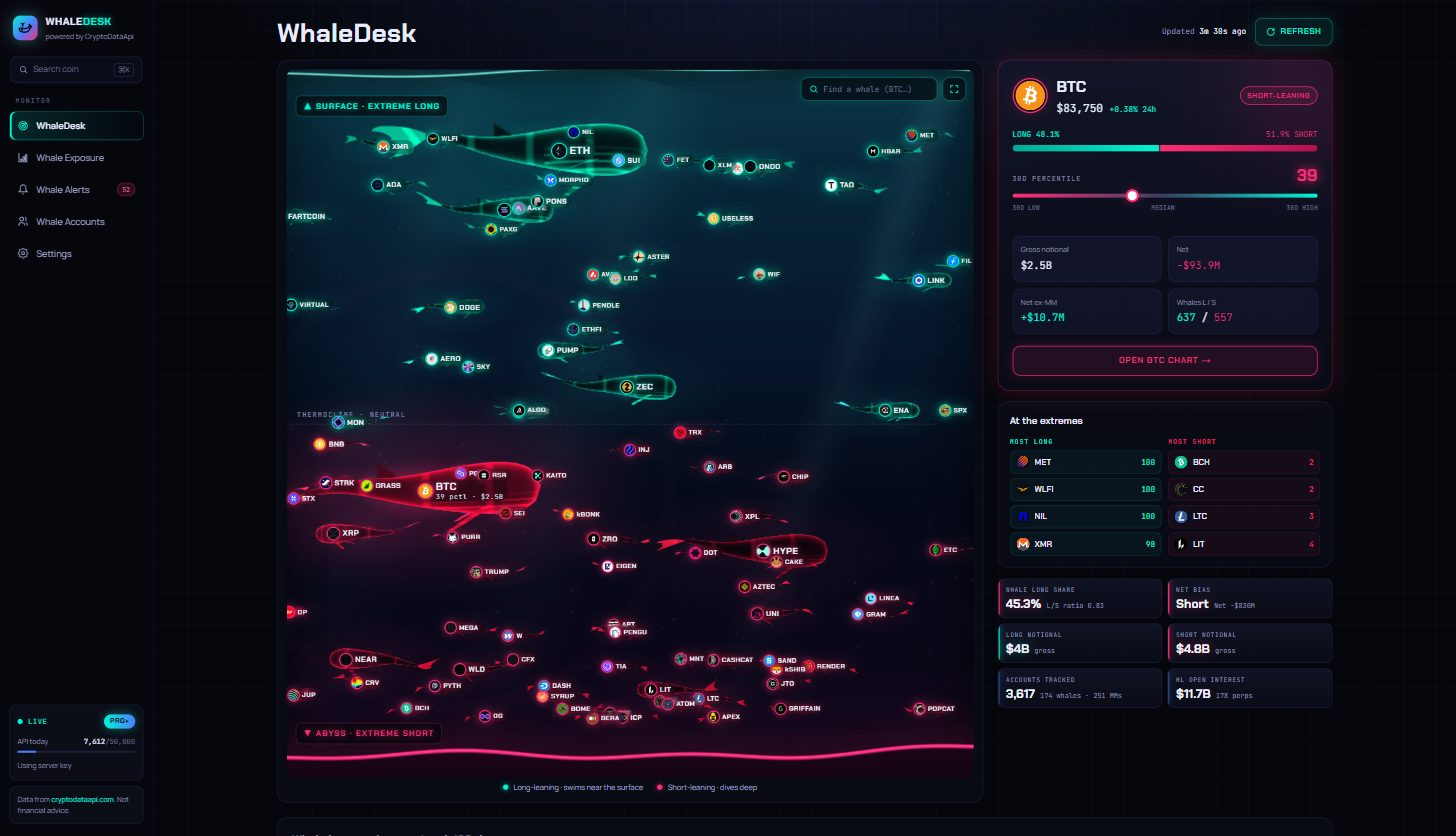
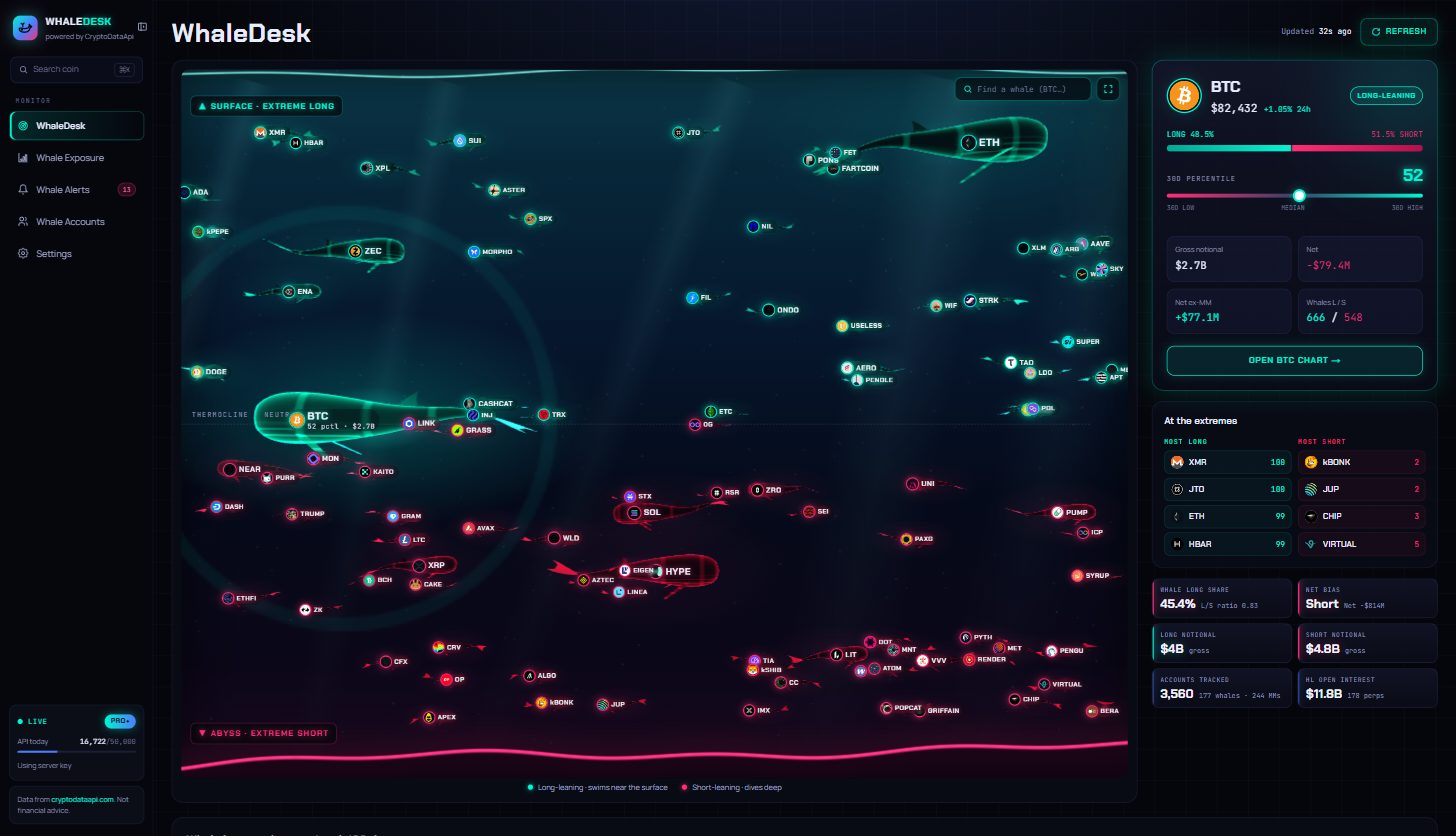
Widen the WhaleDesk ocean and add a sidebar toggle
The home page drops the 1680px cap so the ocean grows with the browser,
while the right column scales from 380px to 440px with the content width
and stacks below the ocean under ~960px. A toggle beside the logo hides
the sidebar (remembered across reloads); a floating button brings it back.
The 24h change on the selected-coin card no longer splits across lines.

diff --git a/src/components/layout/sidebar.tsx b/src/components/layout/sidebar.tsx
@@ -2,10 +2,12 @@
 
 import Link from "next/link";
 import { usePathname } from "next/navigation";
-import { useMemo } from "react";
-import { WhaleMark } from "@/components/deck/icons";
+import { useEffect, useMemo, useState } from "react";
+import { SidebarIcon, WhaleMark } from "@/components/deck/icons";
+import { useSettingsHydrated } from "@/hooks/use-hydrated";
 import { useNow } from "@/hooks/use-now";
 import { cn } from "@/lib/utils";
+import { useSettings } from "@/stores/settings";
 import { useStream } from "@/stores/stream";
 import { CoinSearch } from "./coin-search";
 import { NAV_ITEMS, isActive } from "./nav";
@@ -13,6 +15,34 @@ import { ApiUsage, KeySourceLine, LiveIndicator, TierPill } from "./status-widge
 
 const WHALE_TYPES = new Set(["whale_position", "whale_transfer", "liquidation"]);
 const ALERT_WINDOW_MS = 10 * 60_000;
+
+const SIDEBAR_ID = "app-sidebar";
+
+/** Hides or shows the desktop sidebar. `floating` is the copy pinned top-left while the sidebar is hidden. */
+export function SidebarToggle({ floating = false }: { floating?: boolean }) {
+  const hidden = useSettings((s) => s.sidebarHidden);
+  const setHidden = useSettings((s) => s.setSidebarHidden);
+  const label = hidden ? "Show sidebar" : "Hide sidebar";
+  return (
+    <button
+      type="button"
+      onClick={() => setHidden(!hidden)}
+      title={label}
+      aria-label={label}
+      aria-controls={SIDEBAR_ID}
+      aria-expanded={!hidden}
+      className={cn(
+        "grid shrink-0 cursor-pointer place-items-center rounded-[10px] border text-ink-soft transition-colors hover:border-long/40 hover:text-long",
+        floating
+          ? "fixed top-[30px] left-3.5 z-40 hidden size-9 border-iris/16 bg-[rgba(6,7,14,.85)] backdrop-blur-[12px] lg:grid"
+          : // Tucked into the rail's top-right corner, level with the logo, clear of the brand text.
+            "absolute top-7 right-1 size-[26px] border-transparent hover:bg-iris/8",
+      )}
+    >
+      <SidebarIcon size={floating ? 18 : 16} open={!hidden} />
+    </button>
+  );
+}
 
 export function Brand({ onNavigate }: { onNavigate?: () => void }) {
   return (
@@ -121,10 +151,31 @@ export function SidebarBody({ onNavigate }: { onNavigate?: () => void }) {
   );
 }
 
+/** Desktop rail (lg and up). Slides shut when hidden; the page reflows into the freed width. */
 export function Sidebar() {
+  const hidden = useSettings((s) => s.sidebarHidden);
+  const hydrated = useSettingsHydrated();
+  // Only slide on user toggles, not when the saved state is applied on load.
+  const [animate, setAnimate] = useState(false);
+  useEffect(() => {
+    if (!hydrated) return;
+    const id = requestAnimationFrame(() => setAnimate(true));
+    return () => cancelAnimationFrame(id);
+  }, [hydrated]);
   return (
-    <aside className="sticky top-0 z-40 hidden h-dvh w-[236px] shrink-0 flex-col overflow-y-auto border-r border-iris/10 bg-[rgba(6,7,14,.75)] px-3.5 py-[18px] backdrop-blur-[12px] lg:flex">
-      <SidebarBody />
+    <aside
+      id={SIDEBAR_ID}
+      inert={hidden}
+      className={cn(
+        "sticky top-0 z-40 hidden h-dvh shrink-0 overflow-hidden bg-[rgba(6,7,14,.75)] backdrop-blur-[12px] lg:block",
+        hidden ? "w-0 border-r-0" : "w-[236px] border-r border-iris/10",
+        animate && "transition-[width] duration-200 ease-out motion-reduce:transition-none",
+      )}
+    >
+      <div className="relative flex h-full w-[236px] flex-col overflow-y-auto px-3.5 py-[18px]">
+        <SidebarToggle />
+        <SidebarBody />
+      </div>
     </aside>
   );
 }

diff --git a/src/components/radar/whale-radar-view.tsx b/src/components/radar/whale-radar-view.tsx
@@ -16,6 +16,19 @@ import { WhaleHistoryChart } from "./whale-history-chart";
 import { WhaleKpis } from "./whale-kpis";
 import { OceanLegend, WhaleOcean } from "./whale-ocean";
 
+/**
+ * Ocean beside a right column. The column scales from 380px to 440px with the
+ * content width and the ocean takes the rest; below ~960px of content they
+ * stack. Sizes follow the content box, so they also adjust when the sidebar is hidden.
+ */
+function OceanSplit({ children }: { children: ReactNode }) {
+  return (
+    <section className="@container">
+      <div className="grid gap-[22px] @min-[960px]:grid-cols-[minmax(0,1fr)_clamp(380px,24cqw,440px)] @min-[960px]:items-start">{children}</div>
+    </section>
+  );
+}
+
 /** Ocean panel + right column (selected coin, extremes, KPIs). */
 function RadarSection({
   coins,
@@ -36,12 +49,12 @@ function RadarSection({
   }, [coins, selected]);
 
   return (
-    <section className="flex flex-wrap gap-[22px]">
-      <div className="relative flex min-w-0 flex-[3_1_560px] flex-col gap-1.5 overflow-hidden rounded-[18px] border border-iris/13 bg-panel p-3.5">
+    <OceanSplit>
+      <div className="relative flex min-w-0 flex-col gap-1.5 overflow-hidden rounded-[18px] border border-iris/13 bg-panel p-3.5">
         <WhaleOcean coins={coins} selected={current?.symbol ?? null} onSelect={setSelected} sample={sample} />
         <OceanLegend />
       </div>
-      <div className="flex min-w-0 flex-[1_1_340px] flex-col gap-4">
+      <div className="flex min-w-0 flex-col gap-4">
         {current ? (
           <SelectedCoinCard rc={current} onOpen={() => router.push(`/coin/${encodeURIComponent(current.symbol)}`)} />
         ) : (
@@ -50,7 +63,7 @@ function RadarSection({
         <ExtremesPanel coins={coins} onSelect={setSelected} />
         {kpis}
       </div>
-    </section>
+    </OceanSplit>
   );
 }
 
@@ -95,11 +108,11 @@ export function WhaleRadarView({ initialSel }: { initialSel: string | null }) {
     return (
       <>
         {header}
-        <section className="flex flex-wrap gap-[22px]">
-          <div className="flex min-w-0 flex-[3_1_560px] flex-col gap-1.5 rounded-[18px] border border-iris/13 bg-panel p-3.5">
+        <OceanSplit>
+          <div className="flex min-w-0 flex-col gap-1.5 rounded-[18px] border border-iris/13 bg-panel p-3.5">
             <DeckSkeleton className="h-[max(520px,calc(100vh-196px))] rounded-[12px]" />
           </div>
-          <div className="flex min-w-0 flex-[1_1_340px] flex-col gap-4">
+          <div className="flex min-w-0 flex-col gap-4">
             <DeckSkeleton className="h-[420px] rounded-[18px]" />
             <DeckSkeleton className="h-[190px] rounded-[18px]" />
             <div className="grid grid-cols-2 gap-2">
@@ -108,7 +121,7 @@ export function WhaleRadarView({ initialSel }: { initialSel: string | null }) {
               ))}
             </div>
           </div>
-        </section>
+        </OceanSplit>
       </>
     );
   }

diff --git a/src/stores/settings.ts b/src/stores/settings.ts
@@ -70,6 +70,8 @@ export interface SettingsState {
   refresh: RefreshSettings;
   thresholds: Thresholds;
   feed: FeedPrefs;
+  /** Desktop sidebar hidden (lg and up); the mobile drawer is unaffected. */
+  sidebarHidden: boolean;
 
   setApiKey: (key: string, info: KeyInfo | null) => void;
   setKeyInfo: (info: KeyInfo | null) => void;
@@ -81,6 +83,7 @@ export interface SettingsState {
   setThreshold: (type: EventType, value: number) => void;
   setFeed: (patch: Partial<FeedPrefs>) => void;
   setFeedType: (type: EventType, on: boolean) => void;
+  setSidebarHidden: (hidden: boolean) => void;
   importSettings: (data: unknown) => { ok: boolean; message: string };
   resetPreferences: () => void;
 }
@@ -150,6 +153,7 @@ export const useSettings = create<SettingsState>()(
       refresh: DEFAULT_REFRESH,
       thresholds: DEFAULT_THRESHOLDS,
       feed: DEFAULT_FEED,
+      sidebarHidden: false,
 
       setApiKey: (key, info) => set({ apiKey: key.trim(), keyInfo: info, demoMode: false }),
       setKeyInfo: (info) => set({ keyInfo: info }),
@@ -162,6 +166,7 @@ export const useSettings = create<SettingsState>()(
         set({ thresholds: { ...get().thresholds, [type]: Number.isFinite(value) && value >= 0 ? value : 0 } }),
       setFeed: (patch) => set({ feed: { ...get().feed, ...patch } }),
       setFeedType: (type, on) => set({ feed: { ...get().feed, types: { ...get().feed.types, [type]: on } } }),
+      setSidebarHidden: (hidden) => set({ sidebarHidden: hidden }),
 
       importSettings: (data) => {
         if (!data || typeof data !== "object") return { ok: false, message: "File is not a JSON object." };
@@ -214,6 +219,7 @@ export const useSettings = create<SettingsState>()(
         refresh: s.refresh,
         thresholds: s.thresholds,
         feed: s.feed,
+        sidebarHidden: s.sidebarHidden,
       }),
       merge: (persisted, current) => {
         const p = (persisted ?? {}) as Partial<SettingsState>;
@@ -231,6 +237,7 @@ export const useSettings = create<SettingsState>()(
           refresh: clampRefresh(p.refresh ?? {}, current.refresh),
           thresholds: sanitizeThresholds(p.thresholds, current.thresholds),
           feed: sanitizeFeed(p.feed, current.feed),
+          sidebarHidden: typeof p.sidebarHidden === "boolean" ? p.sidebarHidden : current.sidebarHidden,
         };
       },
     },

diff --git a/src/components/layout/app-shell.tsx b/src/components/layout/app-shell.tsx
@@ -1,10 +1,13 @@
 "use client";
 
 import Link from "next/link";
+import { usePathname } from "next/navigation";
 import { useState, type ReactNode } from "react";
 import { MenuIcon, WhaleMark } from "@/components/deck/icons";
 import { Sheet, SheetContent, SheetDescription, SheetTitle, SheetTrigger } from "@/components/ui/sheet";
-import { Sidebar, SidebarBody } from "./sidebar";
+import { cn } from "@/lib/utils";
+import { useSettings } from "@/stores/settings";
+import { Sidebar, SidebarBody, SidebarToggle } from "./sidebar";
 import { LiveIndicator, TierPill } from "./status-widgets";
 
 /** Top bar shown below the lg breakpoint: menu button (drawer), logo, stream + tier. */
@@ -47,12 +50,25 @@ function MobileBar() {
 }
 
 export function AppShell({ children }: { children: ReactNode }) {
+  // The WhaleDesk ocean uses the full browser width; the other pages stay capped for readable tables.
+  const fullWidth = usePathname() === "/";
+  const sidebarHidden = useSettings((s) => s.sidebarHidden);
   return (
     <div className="flex min-h-dvh">
       <Sidebar />
       <div className="flex min-w-0 flex-1 flex-col">
         <MobileBar />
-        <main className="mx-auto flex w-full max-w-[1680px] min-w-0 flex-col gap-[22px] px-4 py-5 sm:p-7">{children}</main>
+        {sidebarHidden && <SidebarToggle floating />}
+        <main
+          className={cn(
+            "mx-auto flex w-full min-w-0 flex-col gap-[22px] px-4 py-5 sm:p-7",
+            fullWidth ? "max-w-none" : "max-w-[1680px]",
+            // Room for the floating "show sidebar" button.
+            sidebarHidden && "lg:pl-[68px]",
+          )}
+        >
+          {children}
+        </main>
       </div>
     </div>
   );

diff --git a/src/components/radar/selected-coin-card.tsx b/src/components/radar/selected-coin-card.tsx
@@ -63,10 +63,10 @@ export function SelectedCoinCard({ rc, onOpen }: { rc: RadarCoin; onOpen: () => 
           <div className="flex items-baseline gap-2.5">
             <span className="font-display text-[24px] font-bold">{rc.symbol}</span>
           </div>
-          <div className="flex items-baseline gap-2.5 font-mono">
+          <div className="flex flex-wrap items-baseline gap-x-2.5 font-mono">
             <span className="text-[17px] text-ink">{fmtPrice(c.mark)}</span>
             {chg !== null && (
-              <span className="text-[12px]" style={{ color: chg >= 0 ? DECK.long : DECK.short }}>
+              <span className="text-[12px] whitespace-nowrap" style={{ color: chg >= 0 ? DECK.long : DECK.short }}>
                 {fmtPct(chg, { digits: 2, sign: true })} 24h
               </span>
             )}

diff --git a/src/components/deck/icons.tsx b/src/components/deck/icons.tsx
@@ -102,6 +102,17 @@ export function MenuIcon({ size = 20, ...p }: IconProps) {
   );
 }
 
+/** Sidebar toggle: a panel with a chevron pointing the way the sidebar will move. */
+export function SidebarIcon({ size = 18, open = true, ...p }: IconProps & { open?: boolean }) {
+  return (
+    <svg {...base(size, p)}>
+      <rect x="3" y="4" width="18" height="16" rx="2" />
+      <path d="M9 4v16" />
+      <path d={open ? "M16 10l-2 2 2 2" : "M14 10l2 2-2 2"} />
+    </svg>
+  );
+}
+
 export function KeyIcon({ size = 16, ...p }: IconProps) {
   return (
     <svg {...base(size, p)}>
